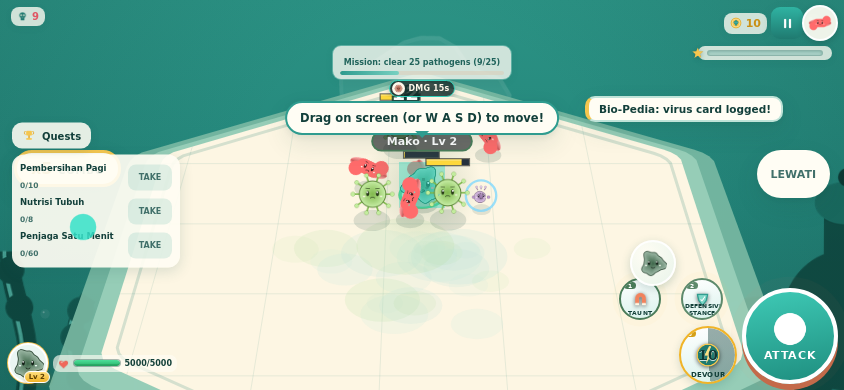
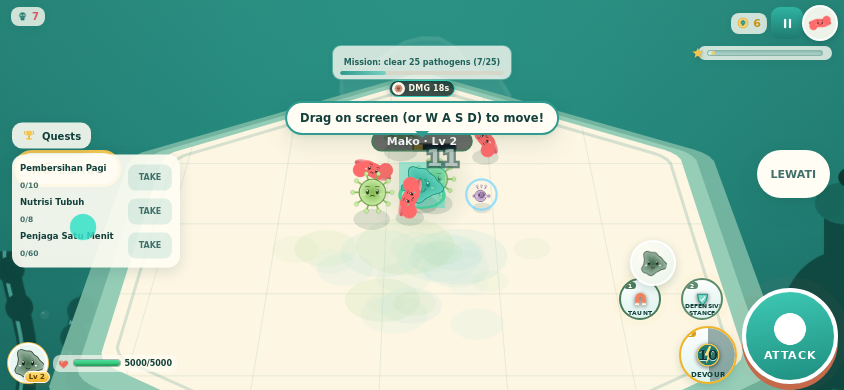
F26: pivot gameplay MMORPG — imun mencari virus: AI sarang guard/patrol/chase/return (aggro 190, leash 430), sarang dekat+jauh per wave (data-driven), trickle bernest, early-clear wave, panah emas penunjuk sarang; boss tetap mengejar — ONBOARD 21/21, 7 suite hijau, bukti shots/101

diff --git a/js/systems/spawn-system.js b/js/systems/spawn-system.js
@@ -28,6 +28,7 @@ export class SpawnSystem {
     this.gateOpen = true;       // Fase 18: gerbang wave — tertutup saat PENJAGA hidup
     this.waveClearing = false;  // wave berhenti spawn setelah durasi habis
     this.breakTimer = 0;        // jeda singkat agar pemain bisa mengumpulkan nutrisi
+    this.nestsSpawnedForWave = 0; // F26: sarang per wave (explore MMORPG)
   }
 
   /** Gerbang tertutup = boss penjaga masih hidup, wave TIDAK bisa maju. */
@@ -100,12 +101,9 @@ export class SpawnSystem {
       return events;
     }
 
-    // ---- Boss setiap N wave → GERBANG DITUTUP sampai boss tumbang ----
-    if (
-      this.wave % cfg.bossWaveEvery === 0 &&
-      this.bossSpawnedForWave !== this.wave &&
-      this.waveTimer < cfg.waveDuration // bukan saat frame ganti wave ganda
-    ) {
+    // ---- F26 BOSS: dicek SEBELUM early-clear agar wave penjaga tak terlewati ----
+    const bossDue = this.wave % cfg.bossWaveEvery === 0 && this.bossSpawnedForWave !== this.wave;
+    if (bossDue && this.waveTimer < cfg.waveDuration) {
       this.bossSpawnedForWave = this.wave;
       // Fase 9: boss bergantian sesuai roster (sel_kanker → toksin_raksasa → …)
       const roster = (cfg.bossRoster && cfg.bossRoster.length) ? cfg.bossRoster : ['sel_kanker'];
@@ -115,17 +113,68 @@ export class SpawnSystem {
       events.bossSpawn = true;
     }
 
-    // ---- Spawn musuh reguler (band kurva sudah di dalam getSpawnInterval) ----
+    // ---- F26 SARANG (explore MMORPG): sekali per wave — 1 dekat + sisanya jauh ----
+    const ai = cfg.explore || {};
+    if (ai.aggroRadius && this.nestsSpawnedForWave !== this.wave) {
+      this.nestsSpawnedForWave = this.wave;
+      this.spawnWaveNests(game, ai);
+    }
+
+    // ---- Trickle pelan: arena tetap hidup; free-ranger juga punya sarang ----
     this.spawnTimer -= dt;
     if (this.spawnTimer <= 0) {
-      this.spawnTimer = getSpawnInterval(this.wave) * this.rampMult / (this.mods.spawnMult || 1);
+      this.spawnTimer = getSpawnInterval(this.wave) * this.rampMult * 2.2 / (this.mods.spawnMult || 1);
       if (game.run.enemies.length < cfg.maxAliveEnemies) {
         const enemyId = this.pickEnemyId(this.wave);
-        if (enemyId) game.spawnEnemy(enemyId, false);
+        if (enemyId) game.spawnEnemy(enemyId, false, { nest: true, ai });
       }
     }
 
+    // ---- Wave berakhir: durasi habis ATAU semua sarang dibersihkan (≥ minWaveTime) ----
+    const regularAlive = game.run.enemies.some((e) => e.alive && !e.isBoss);
+    const bossPending = bossDue && this.waveTimer < cfg.waveDuration;
+    if (
+      this.waveTimer >= cfg.waveDuration ||
+      (!regularAlive && !bossPending && this.waveTimer >= (ai.minWaveTime || 8))
+    ) {
+      this.waveClearing = true;
+      this.breakTimer = 2.5;
+      events.waveBreak = true;
+    }
+
     return events;
+  }
+
+  /**
+   * F26 — Tempatkan sarang patogen di sekitar pemain: satu sarang dekat
+   * (aksi terasa sejak awal, dalam jangkauan auto-attack) dan sisanya jauh
+   * (target jelajah — imun yang mencari virus).
+   */
+  spawnWaveNests(game, ai) {
+    const cfg = getWaveConfig();
+    const nNests = Math.min(ai.nestsMax || 5, (ai.nestsBase || 2) + Math.floor((this.wave - 1) / (ai.nestsAddEveryWaves || 4)));
+    const packSize = Math.max(2, Math.round((ai.packSize || 3) + (this.wave - 1) * (ai.packPerWave || 0.45)));
+    const baseAngle = Math.random() * Math.PI * 2;
+    for (let n = 0; n < nNests; n++) {
+      const near = n === 0;
+      const dist = (near ? ai.nearNestDist || 300 : ai.farNestDist || 620) + (Math.random() - 0.5) * 80;
+      const angle = baseAngle + (n / nNests) * Math.PI * 2 + (Math.random() - 0.5) * 0.6;
+      const px = game.run.player.x + Math.cos(angle) * dist;
+      const py = game.run.player.y + Math.sin(angle) * dist;
+      const enemyId = this.pickEnemyId(this.wave);
+      if (!enemyId) return;
+      for (let m = 0; m < packSize; m++) {
+        if (game.run.enemies.length >= cfg.maxAliveEnemies) return;
+        game.spawnEnemy(enemyId, false, { nest: false }); // posisi ditimpa di bawah
+        const e = game.run.enemies[game.run.enemies.length - 1];
+        if (!e) break;
+        const sa = Math.random() * Math.PI * 2;
+        const sr = 30 + Math.random() * 45;
+        e.x = px + Math.cos(sa) * sr;
+        e.y = py + Math.sin(sa) * sr;
+        e.setNest(px, py, ai);
+      }
+    }
   }
 
   /**

diff --git a/js/entities/enemy.js b/js/entities/enemy.js
@@ -61,12 +61,32 @@ export class Enemy {
     // Result split (untuk enemy anak dari splitter)
     this.splitSource = splitOverrides ? true : false;
 
+    // F26 — AI MMORPG: imun yang mencari virus. Musuh JAGA sarangnya dan
+    // hanya mengejar bila player masuk radius aggro; melewati leash → pulang.
+    // null = free-ranger (fallback perilaku lama: terus mengejar).
+    this.homeX = null;
+    this.homeY = null;
+    this.aiState = 'chase';   // 'guard' | 'patrol' | 'chase' | 'return'
+    this.patrolAngle = Math.random() * Math.PI * 2;
+    this.patrolT = 0;
+
     // Kontrol status (kemampuan aktif): beku total & pelankan (siklon)
     this.frozen = 0;
     this.slowT = 0;
     this.slowMult = 1;
     this.vx = 0; // dorongan (knockback siklon), meluruh tiap frame
     this.vy = 0;
+  }
+
+  /**
+   * F26: tempelkan musuh ke sarang — guard/patrol di sekitar (x,y),
+   * mengejar bila player masuk aggroRadius, pulang bila melewati leashRadius.
+   */
+  setNest(x, y, ai) {
+    this.homeX = x;
+    this.homeY = y;
+    this.aiCfg = ai || null;
+    this.aiState = 'guard';
   }
 
   /** Beku total: musuh berhenti bergerak & menyerang sementara. */
@@ -107,8 +127,52 @@ export class Enemy {
 
     const dx = playerPos.x - this.x;
     const dy = playerPos.y - this.y;
-    const dist = Math.hypot(dx, dy) || 1;
-    const baseAngle = Math.atan2(dy, dx);
+    let dist = Math.hypot(dx, dy) || 1;
+    let baseAngle = Math.atan2(dy, dx);
+
+    // ---- F26 AI sarang: guard → chase → return (boss selalu bebas mengejar) ----
+    if (this.homeX !== null && !this.isBoss) {
+      const ai = this.aiCfg || { aggroRadius: 190, leashRadius: 430, patrolRadius: 80 };
+      const dHome = Math.hypot(this.x - this.homeX, this.y - this.homeY) || 1;
+      if (this.aiState === 'return') {
+        if (dist < ai.aggroRadius * 0.75) {
+          this.aiState = 'chase'; // player terlalu dekat lagi → kejar
+        } else if (dHome <= 14) {
+          this.aiState = 'guard'; // sampai rumah → jaga lagi
+        } else {
+          // jalan pulang, abaikan player
+          this.x += ((this.homeX - this.x) / dHome) * this.speed * 0.9 * dt;
+          this.y += ((this.homeY - this.y) / dHome) * this.speed * 0.9 * dt;
+          if (this.def.orientToMovement) this.rotation = Math.atan2(this.homeY - this.y, this.homeX - this.x);
+          return;
+        }
+      }
+      if (this.aiState === 'guard' || this.aiState === 'patrol') {
+        if (dist < ai.aggroRadius) {
+          this.aiState = 'chase'; // player ketahuan → kejar
+        } else {
+          // patroli kecil mengelilingi sarang (terlihat hidup, tetap di zona)
+          this.patrolT -= dt;
+          if (this.patrolT <= 0) {
+            this.patrolT = 1.6 + Math.random() * 1.6;
+            this.patrolAngle += (Math.random() - 0.5) * 2.2;
+          }
+          const tx = this.homeX + Math.cos(this.patrolAngle) * ai.patrolRadius * 0.6;
+          const ty = this.homeY + Math.sin(this.patrolAngle) * ai.patrolRadius * 0.6;
+          const tdx = tx - this.x, tdy = ty - this.y;
+          const td = Math.hypot(tdx, tdy) || 1;
+          if (td > 6) {
+            this.x += (tdx / td) * this.speed * 0.4 * dt;
+            this.y += (tdy / td) * this.speed * 0.4 * dt;
+            if (this.def.orientToMovement) this.rotation = Math.atan2(tdy, tdx);
+          }
+          return;
+        }
+      }
+      if (this.aiState === 'chase' && dHome > ai.leashRadius) {
+        this.aiState = 'return'; // terlalu jauh dari rumah → pulang (imun yang mencari)
+      }
+    }
 
     switch (this.behavior) {
       case 'chase_direct':

diff --git a/js/core/game.js b/js/core/game.js
@@ -54,7 +54,7 @@ import { getTodayMutator, mergeMutatorMods, recordLeaderboardEntry } from '../sy
 
 import { Camera, PERSP } from '../render/camera.js';
 import { drawBackground, drawArena3D, setArenaPalette } from '../render/background.js';
-import {
+import { drawNestHint,
   drawProjectile, drawParticle, drawPulseGlow, drawHealthBar, drawSwipeArc,
   drawBlastRing, drawTelegraph, drawJoystick, drawMinimap, drawDamageNumber, drawHitSpark,
   drawKillFx,
@@ -267,11 +267,12 @@ export const game = {
     // HOOK dampak-dini: 2 patogen pasti mendekat dalam ±3 detik pertama
     for (let gi = 0; gi < 2; gi++) {
       const ga = (gi / 2) * Math.PI * 2 + 0.7;
-      this.spawnEnemy('bakteri', false);
+      this.spawnEnemy('bakteri', false, { nest: true });
       const ge = this.run.enemies[this.run.enemies.length - 1];
       if (ge) {
         ge.x = player.x + Math.cos(ga) * 250;
         ge.y = player.y + Math.sin(ga) * 250;
+        ge.setNest(ge.x, ge.y, null); // F26: jaga posisinya; mengejar bila player dekat
       }
     }
     this.run.camera.reset(player.x, player.y);
@@ -970,7 +971,7 @@ export const game = {
   /**
    * Spawn musuh di luar area pandang (dipanggil SpawnSystem).
    */
-  spawnEnemy(enemyId, isBossSpawn) {
+  spawnEnemy(enemyId, isBossSpawn, opts = null) {
     const run = this.run;
     const def = getEnemyDef(enemyId);
     if (!def) return;
@@ -994,6 +995,11 @@ export const game = {
     // Mutator liveops: damage kontak musuh
     if (run.bodyMods && run.bodyMods.enemyDamageMult) {
       enemy.damage = Math.round(enemy.damage * run.bodyMods.enemyDamageMult);
+    }
+    // F26: free-ranger trickle juga punya sarang (di titik spawn-nya) —
+    // tidak ada patogen yang mengejar tanpa ujung; imunlah yang mencari.
+    if (opts && opts.nest && !def.isBoss) {
+      enemy.setNest(enemy.x, enemy.y, opts.ai || null);
     }
     run.enemies.push(enemy);
     if (def.isBoss) {
@@ -1765,6 +1771,7 @@ export const game = {
 
     // ---- Screen-space overlays ----
     cam.drawBossIndicatorIfOffscreen(ctx, run.boss, w, h, time);
+    drawNestHint(ctx, run, cam.x, cam.y, w, h, time); // F26: petunjuk arah sarang terdekat
     drawJoystick(ctx, this.input.joystick, this.input.maxRadius, drawImageAt);
 
     // ---- HUD DOM + minimap ----

diff --git a/js/render/shape-renderer.js b/js/render/shape-renderer.js
@@ -270,6 +270,49 @@ export function drawBossIndicator(ctx, boss, camX, camY, w, h, time) {
   ctx.globalAlpha = 1;
 }
 
+/**
+ * F26 — Panah "cari sarang": menunjuk sarang/musuh terdekat saat TIDAK ada
+ * patogen di layar. Inti gameplay MMORPG: imun yang mencari virus.
+ */
+export function drawNestHint(ctx, run, camX, camY, w, h, time) {
+  if (!run || !run.enemies) return;
+  const margin = 60;
+  let nearest = null;
+  let nearestD = Infinity;
+  for (const e of run.enemies) {
+    if (!e.alive || e.isBoss) continue;
+    const sx = e.x - camX + w / 2;
+    const sy = e.y - camY + h / 2;
+    const onScreen = sx > margin && sx < w - margin && sy > margin && sy < h - margin;
+    if (onScreen) return; // masih ada patogen terlihat → panah tak perlu
+    const d = (e.x - camX) ** 2 + (e.y - camY) ** 2;
+    if (d < nearestD) { nearestD = d; nearest = e; }
+  }
+  if (!nearest) return;
+  const cx = w / 2;
+  const cy = h / 2;
+  const sx = nearest.x - camX + w / 2;
+  const sy = nearest.y - camY + h / 2;
+  const angle = Math.atan2(sy - cy, sx - cx);
+  const edgeX = cx + Math.cos(angle) * (Math.min(w, h) / 2 - 22);
+  const edgeY = cy + Math.sin(angle) * (Math.min(h, w) / 2 - 22);
+  const pulse = 0.6 + 0.4 * Math.sin(time * 5);
+  ctx.save();
+  ctx.translate(edgeX, edgeY);
+  ctx.rotate(angle);
+  ctx.globalAlpha = 0.45 + pulse * 0.55;
+  ctx.fillStyle = '#f5c64f'; // emas = petunjuk jelajah (beda dari merah boss)
+  ctx.beginPath();
+  ctx.moveTo(13, 0);
+  ctx.lineTo(-8, -8);
+  ctx.lineTo(-4, 0);
+  ctx.lineTo(-8, 8);
+  ctx.closePath();
+  ctx.fill();
+  ctx.restore();
+  ctx.globalAlpha = 1;
+}
+
 /** Minimap bulat di HUD. */
 export function drawMinimap(ctx, canvas, run, player, mapRadius) {
   const w = canvas.width;

diff --git a/index.html b/index.html
@@ -9,7 +9,7 @@
   <meta name="theme-color" content="#fdf6e3" />
   <meta name="description" content="Imunverse — roguelike survival bertema sel imun. Bertahanlah di dalam tubuh melawan gelombang patogen!" />
   <title>Imunverse — Roguelike Survival Sel Imun</title>
-  <link rel="stylesheet" href="styles/main.css?v=25b" />
+  <link rel="stylesheet" href="styles/main.css?v=26a" />
   <link rel="stylesheet" href="styles/dashboard-focus.css?v=1" />
 </head>
 <body>
@@ -656,7 +656,7 @@
     <div id="toasts"></div>
   </div>
 
-  <script type="module" src="js/main.js?v=25b"></script>
+  <script type="module" src="js/main.js?v=26a"></script>
   <div id="rotate-hud" aria-hidden="true">
     <div class="rh-phone"><span></span></div>
     <b>Putar HP-mu</b>

diff --git a/js/core/version.js b/js/core/version.js
@@ -2,4 +2,4 @@
  * version.js — Versi build aset. Naikkan setiap rilis agar browser pemain
  * memuat ulang file (cache-busting), apa pun server statisnya.
  */
-export const BUILD = '25b';
+export const BUILD = '26a';

diff --git a/ROADMAP.md b/ROADMAP.md
@@ -468,6 +468,15 @@ Semua parameter hidup di **data/retention.json** (baru) — tanpa angka keras di
 - [x] buster `25b`.
 - **Kriteria lulus:** 7 suite hijau (ONBOARD 18/18, CORE 20/20, RET 20/20, ECO 14/14, BAL 13/13, PROG 18/18, PURPOSE 13/13); bukti `shots/100-hud-polish` (geometri terukur: XP kanan-atas, fire 96px radius 50%, menu2 di tengah-kanan).
 
+## Fase 26 — Pivot Gameplay MMORPG: Imun Mencari Virus ✅
+**Arahan pemilik (F26):** "design mainnya seperti MMORPG — imun CARI virus, dia explore; bukan virus yang terus menyerang. Ada waktu untuk user periksa menu & upgrade tanpa meninggalkan gameplay."
+- [x] **AI sarang** (`js/entities/enemy.js`): musuh dilahirkan terikat sarang (`setNest`) dengan state machine **guard → patrol → chase → return** — hanya mengejar bila pemain masuk `aggroRadius` (190), menyerah & pulang bila melewati `leashRadius` (430); patroli kecil di sekitar sarang biar arena hidup. Boss TETAP bebas mengejar (penjaga tetap menegangkan).
+- [x] **Sarang per wave** (`spawn-system.js`): tiap wave dibentangkan **1 sarang dekat (±230px — dalam jangkauan auto-attack)** + sarang jauh (±620px) sebagai target jelajah; jumlah sarang 2→5 & isi pak 3→ tumbuh per wave (data-driven `explore` di `data/waves.json`). Trickle pelan (interval ×2.2) juga bernest di titik spawnnya — **tidak ada lagi pengejaran tanpa ujung**.
+- [x] **Wave berakhir dua cara**: durasi habis (25 dtk) ATAU **semua sarang dibersihkan** (≥ 8 dtk) → fase CLEAR → break 2.5 dtk → wave baru; boss-wave dicek dulu agar gerbang penjaga tidak terlewat. Downtime eksplorasi = waktu natural buka menu ganda F25 tanpa keluar gameplay.
+- [x] **Panah petunjuk sarang** (`drawNestHint`, emas berdenyut — beda dari merah boss): muncul saat TIDAK ada patogen di layar, menunjuk kawanan terdekat → pemain selalu tahu ke mana menjelajah.
+- [x] **Regresi kunci F26** (ONBOARD section 11): `enemies-guard-nests-not-swarm` (9/9 bernest & menjaga), `aggro-leash-cycle` (dekat→chase, jauh→return), `nest-clear-advances-wave` (bersih-bersih mempercepat wave). Buster `26a`.
+- **Kriteria lulus:** ONBOARD **21/21**, CORE 20/20, RET 20/20, ECO 14/14, BAL 13/13, PROG 18/18, PURPOSE 13/13 — semua di AI baru tanpa penyesuaian suite lama (kompatibel penuh); bukti `shots/101-explore-mmorpg` (arena tenang + panah emas penunjuk sarang).
+
 ## Fase 8.2 — Koreksi: Tombol Hud Klik-Riil + Detail Upgrade di Menu Heroes ✅
 **Koreksi user:** (1) tombol TEMBAK tidak berfungsi & menutupi tombol jurus; (2) tombol jurus juga tidak berfungsi; (3) menu Heroes harus punya halaman detail per hero berisi upgrade persenjataan/damage/pasukan — "kalau sudah dibuat di mana letaknya? kalau ada berarti salah tempat".
 - [x] **AKAR MASALAH (1)&(2)**: `#screen-hud` ber-class `.screen.passive` = `pointer-events: none` (biar canvas tetap menerima joystick) → SEMUA tombol HUD tidak pernah bisa diklik. E2e lama memanggil API langsung (bukan klik) — lubang verifikasi; kini semua tes tombol memakai **klik mouse riil**.
